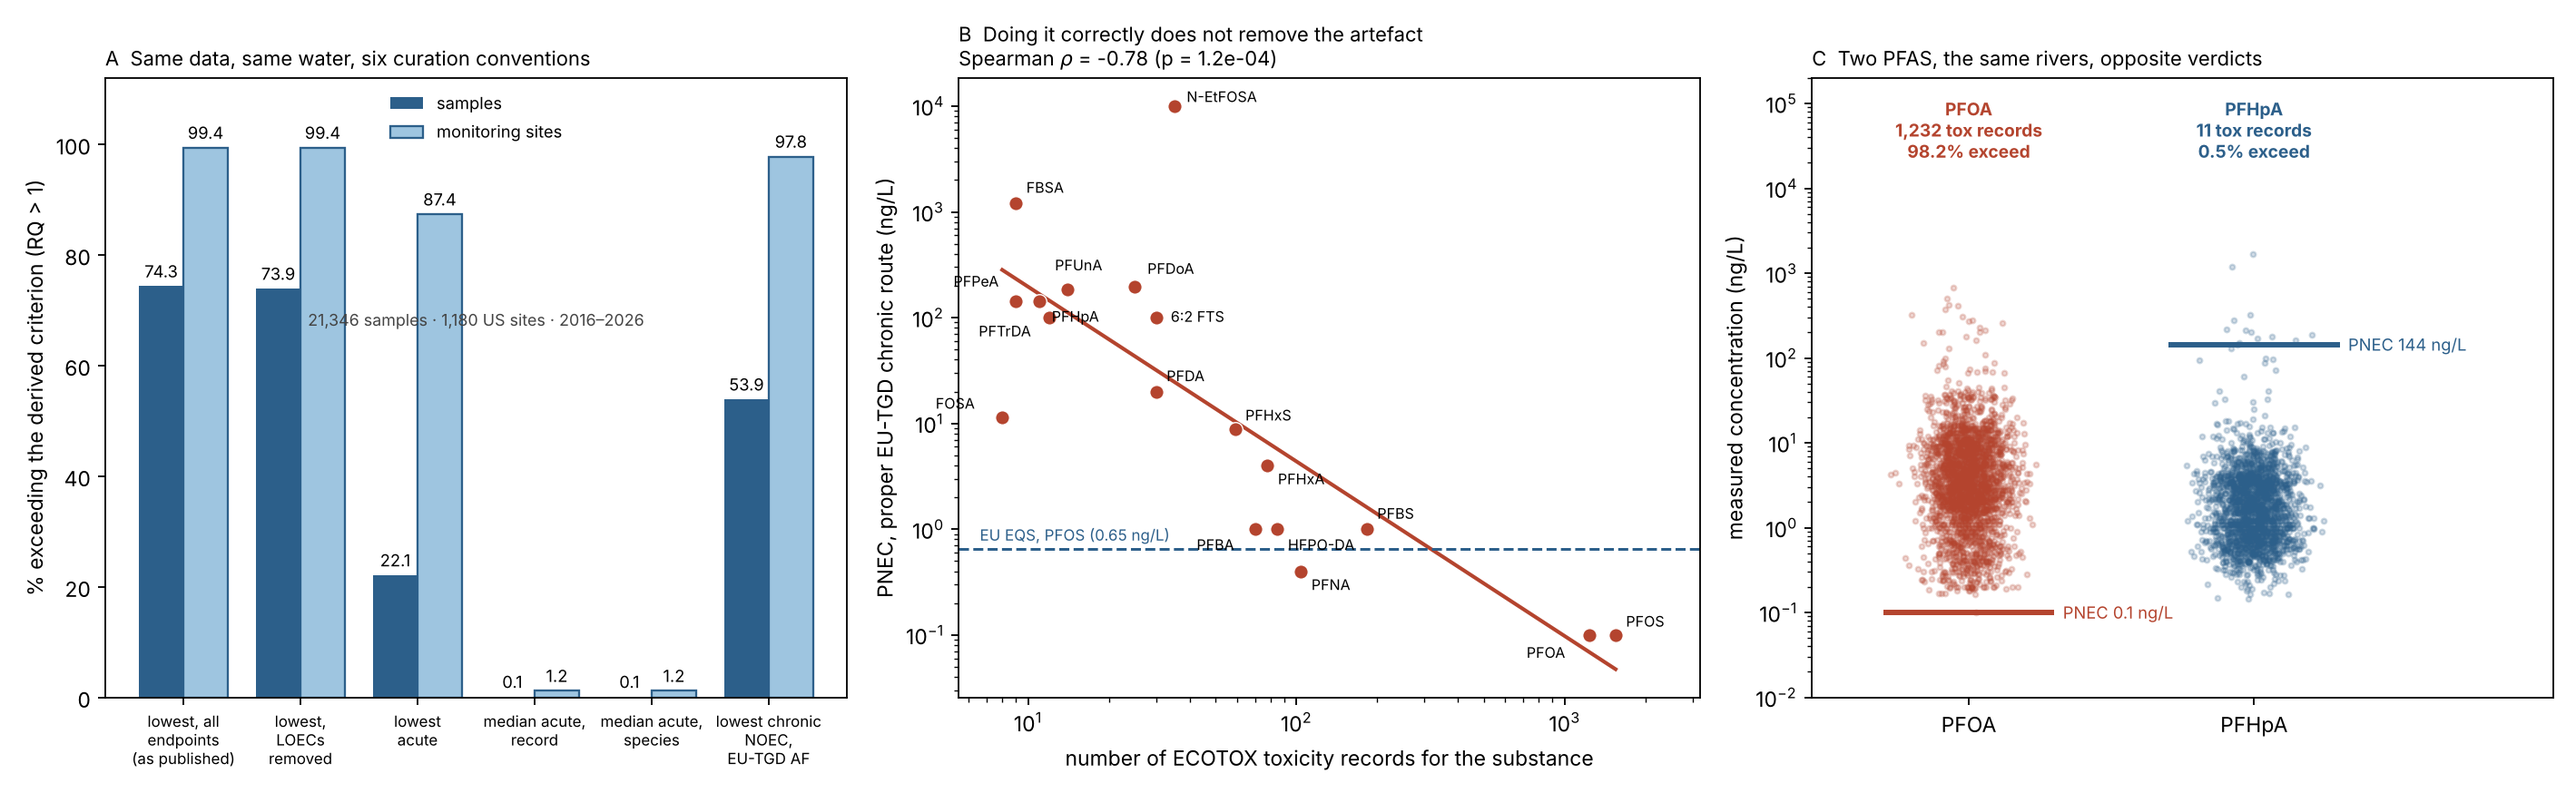
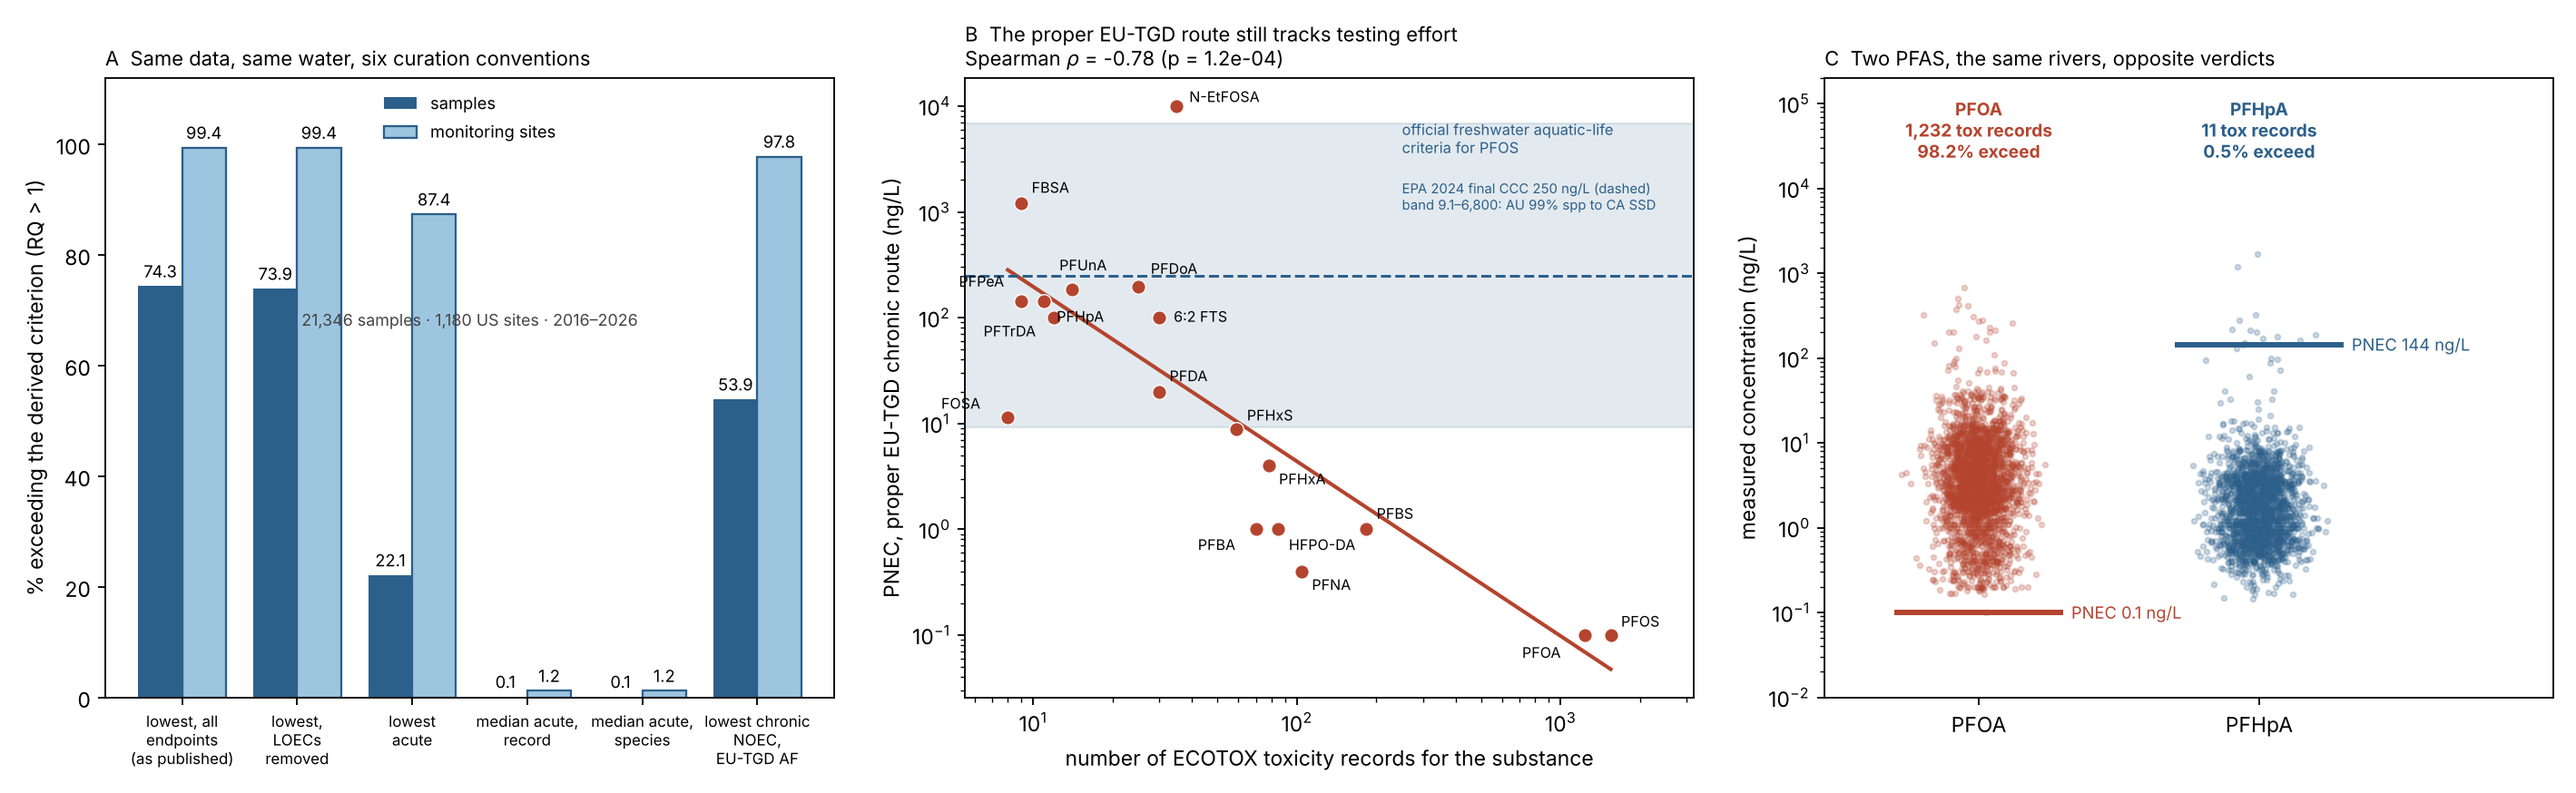
analysis_water: implement the regulatory-style screen (C7) and test it
Adds the apical-endpoint, chronic, active-ingredient screen that regulatory
derivations apply to ECOTOX, species mean chronic values and a log-normal SSD
HC5, plus a second assertion gate reproducing the deposited per-parent minimum
for all 87 parents.

The screen reaches the regulatory range (PFOS HC5 4,738 ng/L vs Canada FEQG
6,800) but leaves the testing-effort dependence intact (rho = -0.69 for the HC5),
because the number of species surviving the screen rises with study effort.

Claude-Session: https://claude.ai/code/session_011ULV6g6rrGQf1VyRDhee55

diff --git a/analysis_water/scripts/fig_c7.py b/analysis_water/scripts/fig_c7.py
@@ -1,0 +1,78 @@
+import pandas as pd, numpy as np, matplotlib
+matplotlib.use("Agg"); import matplotlib.pyplot as plt
+from scipy import stats
+C=pd.read_csv("/home/claude/wq/c7_ssd.csv"); L=pd.read_csv("ladder.csv")
+ex=pd.read_csv("exceedance_c7.csv")
+m=C.merge(L[["parent","n_records","C1_min_all","C3_min_acute","C5_spmed_acute",
+             "C6_min_noec","AF_C6"]],on="parent")
+rng=np.random.default_rng(20261121)
+def rho(x,y):
+    k=(~pd.isna(x))&(~pd.isna(y)); x,y=np.asarray(x)[k],np.asarray(y)[k]
+    r,_=stats.spearmanr(x,y)
+    bs=[stats.spearmanr(x[i],y[i])[0] for i in (rng.integers(0,len(y),len(y)) for _ in range(4000))]
+    return r,*np.nanpercentile(bs,[2.5,97.5]),len(y)
+x=np.log10(m.n_records)
+ITEMS=[("lowest, all endpoints\n(as published)",rho(x,m.C1_min_all)),
+       ("lowest acute",rho(x,m.C3_min_acute)),
+       ("lowest chronic NOEC,\nEU-TGD AF",rho(x,np.log10((10**m.C6_min_noec)/m.AF_C6))),
+       ("lowest apical chronic\nSMCV (screened)",rho(x,m.C7_min)),
+       ("SSD HC5 of apical\nchronic SMCVs",rho(np.log10(m[m.C7_HC5.notna()].n_records),
+                                               m[m.C7_HC5.notna()].C7_HC5)),
+       ("median acute,\nspecies-resolved",rho(x,m.C5_spmed_acute))]
+fig,ax=plt.subplots(2,2,figsize=(13.6,9.4))
+
+# A exceedance
+a=ax[0,0]; lb=["lowest,\nall endpoints","lowest\nacute","lowest chronic\nNOEC +AF",
+               "lowest apical\nSMCV +AF","SSD HC5\n(regulatory)","median acute,\nspecies"]
+o=[0,1,3,4,5,2]
+y1=ex.pct_samples.values[o]; y2=ex.pct_sites.values[o]
+xs=np.arange(6); w=.38
+a.bar(xs-w/2,y1,w,color="#2c5f8a",label="samples"); a.bar(xs+w/2,y2,w,color="#9ec5e0",edgecolor="#2c5f8a",label="sites")
+for i,(u,v) in enumerate(zip(y1,y2)):
+    a.text(i-w/2,u+1.7,f"{u:.1f}",ha="center",fontsize=7.6); a.text(i+w/2,v+1.7,f"{v:.1f}",ha="center",fontsize=7.6)
+a.set_xticks(xs); a.set_xticklabels(lb,fontsize=7.3); a.set_ylim(0,112)
+a.set_ylabel("% exceeding the derived criterion"); a.legend(fontsize=8,frameon=False,loc="upper right")
+a.set_title("A  21,346 measurements, 1,180 US sites: the verdict depends on the convention",fontsize=9.4,loc="left")
+
+# B forest
+b=ax[0,1]; ys=np.arange(len(ITEMS))[::-1]
+for yy,(lbl,(r,lo,hi,n)) in zip(ys,ITEMS):
+    sig = not (lo<=0<=hi)
+    c="#b4442e" if sig else "#2f7d4f"
+    b.plot([lo,hi],[yy,yy],c=c,lw=2.3,solid_capstyle="round")
+    b.plot(r,yy,"o",c=c,ms=8,zorder=3)
+    b.text(.06,yy+.26,f"n={n}",fontsize=7,color="#555")
+b.axvline(0,c="#888",lw=1,ls="--")
+b.set_yticks(ys); b.set_yticklabels([i[0] for i in ITEMS],fontsize=8)
+b.set_xlabel(r"Spearman $\rho$ between testing effort (log records) and the derived criterion")
+b.set_xlim(-1.02,.62)
+b.set_title("B  Screening to regulatory standards does not remove the artefact\n"
+            "red = CI excludes zero; green = effort-independent",fontsize=9.4,loc="left")
+
+# C mechanism
+c=ax[1,0]
+c.scatter(m.n_records,m.n_sp_C7,s=40,c="#2c5f8a",alpha=.8,edgecolor="w",lw=.5)
+r,lo,hi,n=rho(x,m.n_sp_C7)
+sl,ic,_,_,_=stats.linregress(x,np.log10(m.n_sp_C7.clip(lower=.5)))
+gx=np.linspace(x.min(),x.max(),50); c.plot(10**gx,10**(sl*gx+ic),c="#2c5f8a",lw=1.8)
+c.set_xscale("log"); c.set_yscale("log")
+c.set_xlabel("ECOTOX records for the substance"); c.set_ylabel("species surviving the regulatory screen")
+c.set_title(f"C  Why: more study means a longer left tail to the SSD\n"
+            rf"$\rho$ = {r:+.2f}, 95% CI [{lo:+.2f}, {hi:+.2f}]",fontsize=9.4,loc="left")
+
+# D matched pair
+d=ax[1,1]; mm=pd.read_pickle("m_ladder.pkl")
+mm["subst"]=mm.cas.map({"335-67-1":"PFOA","375-85-9":"PFHpA"})
+for i,(s,col) in enumerate([("PFOA","#b4442e"),("PFHpA","#2c5f8a")]):
+    g=mm[mm.subst==s]
+    d.scatter(np.random.default_rng(7+i).normal(i,.075,len(g)),g.ngL,s=6,alpha=.2,c=col)
+    p6=(10**g.C6_min_noec.iloc[0])*1e6/g.AF_C6.iloc[0]
+    d.hlines(p6,i-.3,i+.3,color=col,lw=2.6,zorder=4)
+    d.text(i+.33,p6,f"PNEC {p6:,.3g} ng/L",fontsize=8,color=col,va="center")
+    d.text(i,3e4,f"{s}\n{int(g.n_records.iloc[0]):,} records\n{100*(g.ngL>p6).mean():.1f}% exceed",
+           ha="center",fontsize=8.6,color=col,weight="bold")
+d.set_yscale("log"); d.set_xticks([0,1]); d.set_xticklabels(["PFOA","PFHpA"])
+d.set_xlim(-.55,2.0); d.set_ylim(1e-2,3e5); d.set_ylabel("measured concentration (ng/L)")
+d.set_title("D  Two PFAS measured at the same 819 sites, opposite verdicts",fontsize=9.4,loc="left")
+plt.tight_layout(); plt.savefig("fig_c7.png",dpi=160)
+for lbl,(r,lo,hi,n) in ITEMS: print(f"{lbl.replace(chr(10),' '):42s} rho={r:+.3f} [{lo:+.3f},{hi:+.3f}] n={n}")

diff --git a/analysis_water/scripts/c7b.py b/analysis_water/scripts/c7b.py
@@ -1,0 +1,60 @@
+import pandas as pd, numpy as np
+from rdkit import Chem, RDLogger
+from rdkit.Chem.MolStandardize import rdMolStandardize
+from scipy import stats
+RDLogger.DisableLog('rdApp.*'); UNC=rdMolStandardize.Uncharger()
+def canon(s):
+    m=Chem.MolFromSmiles(str(s))
+    if m is None: return None
+    fr=Chem.GetMolFrags(m,asMols=True,sanitizeFrags=False)
+    fl=[f for f in fr if any(a.GetSymbol()=="F" for a in f.GetAtoms())]
+    big=max(fl if fl else fr,key=lambda f:f.GetNumHeavyAtoms())
+    try: big=UNC.uncharge(big); Chem.SanitizeMol(big)
+    except Exception: pass
+    return Chem.MolToSmiles(big)
+meas=pd.read_csv("/home/claude/pfasv32/archive_v2/ecotox_pfas_measured.csv")
+meas["parent"]=[canon(s) for s in meas.canonical_smiles]; meas=meas[meas.parent.notna()]
+meas["test_cas"]=meas.test_cas.astype(str)
+rec=pd.read_csv("records_with_species.csv.gz"); rec["test_cas"]=rec.test_cas.astype(str)
+R=pd.read_csv("results_enriched.csv.gz",dtype=str)
+
+# unit -> multiplier (to mg/L), learned from the deposited records
+um=rec.dropna(subset=["mult"]).groupby("conc1_unit").mult.agg(lambda s:s.iloc[0]).to_dict()
+chk=rec.groupby("conc1_unit").mult.nunique()
+assert (chk<=1).all(), "unit->mult not unique"
+print("units:",um)
+
+R["conc"]=pd.to_numeric(R.conc1_mean,errors="coerce")
+R["unit"]=R.conc1_unit.astype(str).str.strip()
+R["mult"]=R.unit.map(um)
+R=R[R.conc.notna() & R["mult"].notna() & (R.conc>0)].copy()
+R["logTox"]=np.log10(R.conc*R["mult"])
+R["test_id"]=R.test_id.astype(str)
+
+sp=rec.drop_duplicates("test_id")[["test_id","test_cas","latin_name","ecotox_group","organism_habitat","media_type"]]
+sp["test_id"]=sp.test_id.astype(str)
+R=R.merge(sp,on="test_id",how="inner").merge(meas[["test_cas","parent"]],on="test_cas",how="inner")
+R["ep"]=R.endpoint.astype(str).str.strip().str.upper().str.replace("*","",regex=False)
+R["censored"]=R.conc1_mean_op.astype(str).str.strip().isin([">","<",">=","<=","~"])
+print("censored rows dropped:",int(R.censored.sum()))
+R=R[~R.censored].copy()
+R=R.drop_duplicates(subset=["test_id","ep","conc1_mean","conc1_unit","effect","measurement"])
+print("\nresult-level rows with parent+species+logTox: %d  (%d parents)"%(len(R),R.parent.nunique()))
+print("effect assigned: %.1f%%"%(100*R.effect.notna().mean()))
+
+# ---- GATE: the deposited minimum must be reproducible from this result-level table
+dep=pd.read_csv("/home/claude/pfasv32/canonical_results/ecotox_pfas_measured_recurated.csv")
+mn=R.drop_duplicates(subset=["test_id","ep","conc1_mean","conc1_unit"]).groupby("parent").logTox.min()
+cmp=dep.set_index("parent").logTox.to_dict()
+agree=sum(1 for p,v in mn.items() if p in cmp and abs(v-cmp[p])<1e-9)
+print("GATE: parents whose deposited logTox min is reproduced: %d / %d"%(agree,len(cmp)))
+
+APICAL={"MOR","GRO","REP","DVP","POP"}
+CHRON={"NOEC","EC10","MATC","NOEL"}
+R["apical"]=R.effect.isin(APICAL); R["chron"]=R.ep.isin(CHRON)
+print("\napical %.1f%%   chronic-endpoint %.1f%%"%(100*R.apical.mean(),100*R.chron.mean()))
+lo=R[R.logTox<-3]; hi=R[R.logTox>=-3]
+print("\nextreme tail (<1 ug/L): n=%d, apical %.1f%%"%(len(lo),100*lo.apical.mean()))
+print("rest:                   n=%d, apical %.1f%%"%(len(hi),100*hi.apical.mean()))
+print("\neffect mix in the extreme tail:"); print(lo.effect.value_counts().head(10).to_string())
+R.to_csv("results_parent.csv.gz",index=False,compression="gzip")

diff --git a/analysis_water/scripts/c7c.py b/analysis_water/scripts/c7c.py
@@ -1,0 +1,54 @@
+import pandas as pd, numpy as np
+from scipy import stats
+R=pd.read_csv("results_parent.csv.gz")
+DEP_EP={"EC50","IC50","LC50","LOEC","LOEL","MATC","NOEC","NOEL"}
+G=R[R.ep.isin(DEP_EP)].copy()
+dep=pd.read_csv("/home/claude/pfasv32/canonical_results/ecotox_pfas_measured_recurated.csv")
+mn=G.drop_duplicates(subset=["test_id","ep","conc1_mean","conc1_unit"]).groupby("parent").logTox.min()
+d=dep.set_index("parent").logTox
+j=pd.DataFrame({"mine":mn,"dep":d}).dropna()
+ok=int(((j.mine-j.dep).abs()<1e-9).sum())
+print("GATE: deposited logTox min reproduced for %d / %d parents"%(ok,len(j)))
+assert ok==len(j)==87, "gate failed"
+
+APICAL={"MOR","GRO","REP","DVP","POP"}
+C7EP={"NOEC","NOEL","MATC","EC10"}
+sel=R[R.ep.isin(C7EP) & R.effect.isin(APICAL) & (R.conc1_type=="A")].copy()
+print("\nC7 screen: chronic apical, active ingredient -> %d results, %d parents, %d species"
+      %(len(sel),sel.parent.nunique(),sel.latin_name.nunique()))
+print("  endpoint mix:",sel.ep.value_counts().to_dict())
+print("  effect mix:  ",sel.effect.value_counts().to_dict())
+
+# Species Mean Chronic Value = geometric mean within species
+smcv=sel.groupby(["parent","latin_name"]).logTox.mean().reset_index()
+rows=[]
+for p,g in smcv.groupby("parent"):
+    v=np.sort(g.logTox.values); n=len(v)
+    mu=v.mean(); sd=v.std(ddof=1) if n>1 else np.nan
+    hc5=mu+stats.norm.ppf(.05)*sd if (n>=5 and sd==sd) else np.nan
+    rows.append(dict(parent=p,n_sp_C7=n,C7_min=v[0],C7_gm=mu,C7_sd=sd,C7_HC5=hc5))
+C=pd.DataFrame(rows)
+C.to_csv("c7_ssd.csv",index=False)
+print("\nparents with >=5 species (SSD-able): %d ; >=3: %d"%(C.n_sp_C7.ge(5).sum(),C.n_sp_C7.ge(3).sum()))
+
+NAME={"O=S(=O)(O)C(F)(F)C(F)(F)C(F)(F)C(F)(F)C(F)(F)C(F)(F)C(F)(F)C(F)(F)F":"PFOS",
+      "O=C(O)C(F)(F)C(F)(F)C(F)(F)C(F)(F)C(F)(F)C(F)(F)C(F)(F)F":"PFOA"}
+OFF={"PFOS":{"EPA 2024 CCC":250,"EU direct-tox AA-EQS":230,"AU DGV 95%":480,
+             "AU DGV 99%":9.1,"CA FEQG":6800},
+     "PFOA":{"EPA 2024 CCC":100000}}
+print("\n"+"="*92)
+print("C7 (regulatory-style screen) vs OFFICIAL FRESHWATER AQUATIC-LIFE CRITERIA, ng/L")
+print("="*92)
+for smi,nm in NAME.items():
+    r=C[C.parent==smi]
+    if not len(r): print(nm,"absent"); continue
+    r=r.iloc[0]
+    gm=10**np.mean(np.log10(list(OFF[nm].values())))
+    print(f"\n{nm}: {int(r.n_sp_C7)} species after screen")
+    for lbl,col,af in [("C7 HC5 (SSD 5th pct), no AF","C7_HC5",1.0),
+                       ("C7 lowest SMCV / AF 10","C7_min",10.0),
+                       ("C7 geometric mean SMCV","C7_gm",1.0)]:
+        if pd.isna(r[col]): print(f"  {lbl:32s} n/a"); continue
+        v=(10**r[col])*1e6/af      # mg/L -> ng/L
+        print(f"  {lbl:32s} {v:>12,.4g} ng/L   {v/gm:>10,.3g}x official gm ({np.log10(v/gm):+.2f} log)")
+    print(f"  official: "+", ".join(f"{k} {v:,.4g}" for k,v in OFF[nm].items())+f"  | gm {gm:,.4g}")

diff --git a/analysis_water/scripts/c7test.py b/analysis_water/scripts/c7test.py
@@ -1,0 +1,36 @@
+import pandas as pd, numpy as np
+from scipy import stats
+C=pd.read_csv("c7_ssd.csv"); L=pd.read_csv("wqp/ladder.csv")
+m=C.merge(L[["parent","n_records","C1_min_all","C6_min_noec","AF_C6","C5_spmed_acute"]],on="parent")
+rng=np.random.default_rng(20261121)
+def rho(x,y,lbl):
+    k=(~pd.isna(x))&(~pd.isna(y)); x,y=np.asarray(x)[k],np.asarray(y)[k]
+    r,p=stats.spearmanr(x,y)
+    bs=[stats.spearmanr(x[i],y[i])[0] for i in (rng.integers(0,len(y),len(y)) for _ in range(4000))]
+    lo,hi=np.nanpercentile(bs,[2.5,97.5])
+    print(f"  {lbl:46s} n={len(y):3d}  rho={r:+.3f}  95%CI [{lo:+.3f},{hi:+.3f}]  p={p:.2g}")
+    return r
+print("="*98)
+print("DOES THE REGULATORY-STYLE SCREEN REMOVE THE TESTING-EFFORT DEPENDENCE?")
+print("="*98)
+x=np.log10(m.n_records)
+rho(x,m.C1_min_all,          "C1  lowest, all endpoints (as published)")
+rho(x,np.log10((10**m.C6_min_noec)/m.AF_C6), "C6  lowest chronic NOEC / EU-TGD AF")
+rho(x,m.C5_spmed_acute,      "C5  median acute, species-resolved")
+rho(x,m.C7_min,              "C7  lowest apical chronic SMCV")
+rho(x,m.C7_gm,               "C7  geometric mean apical chronic SMCV")
+s=m[m.C7_HC5.notna()]
+rho(np.log10(s.n_records),s.C7_HC5, "C7  SSD HC5 (5th pct), >=5 species")
+print("\n  n species surviving the C7 screen vs effort:")
+rho(x,m.n_sp_C7,             "      (species count itself)")
+print("\n" + "="*98)
+print("WHY: does the screen remove MORE records from better-studied substances?")
+R=pd.read_csv("results_parent.csv.gz")
+DEP={"EC50","IC50","LC50","LOEC","LOEL","MATC","NOEC","NOEL"}
+g=R[R.ep.isin(DEP)].groupby("parent").agg(n_all=("logTox","size"),
+      n_apical=("effect",lambda s:s.isin({"MOR","GRO","REP","DVP","POP"}).sum()))
+g["frac_apical"]=g.n_apical/g.n_all
+g=g[g.n_all>=10]
+rho(np.log10(g.n_all),g.frac_apical,"  apical fraction vs n records (>=10 recs)")
+print(f"\n  apical fraction: substances with <50 records {g[g.n_all<50].frac_apical.median():.3f}"
+      f" ; >=200 records {g[g.n_all>=200].frac_apical.median():.3f}")

diff --git a/analysis_water/scripts/exceed7.py b/analysis_water/scripts/exceed7.py
@@ -1,0 +1,25 @@
+import pandas as pd, numpy as np
+C=pd.read_csv("/home/claude/wq/c7_ssd.csv")
+m=pd.read_pickle("m_ladder.pkl").merge(C,on="parent",how="left")
+m["ugL"]=m.ngL/1000.0
+CONV=[("C1_min_all","lowest, all endpoints (as published)",1000.0),
+      ("C3_min_acute","lowest acute",1000.0),
+      ("C5_spmed_acute","median acute, species-resolved",1000.0),
+      ("C6_min_noec","lowest chronic NOEC, EU-TGD AF","AF_C6"),
+      ("C7_min","lowest apical chronic SMCV, AF 10",10.0),
+      ("C7_HC5","SSD HC5 of apical chronic SMCVs (regulatory style)",1.0)]
+rows=[]
+for col,lbl,AF in CONV:
+    d=m[m[col].notna()].copy()
+    a=d[AF] if isinstance(AF,str) else AF
+    if isinstance(AF,str): d=d[d[AF].notna()]; a=d[AF]
+    d["PNEC"]=(10.0**d[col])*1000.0/a
+    d["RQ"]=d.ugL/d.PNEC
+    st=d.groupby("MonitoringLocationIdentifier").RQ.max()
+    rows.append(dict(convention=lbl,n_samples=len(d),n_sub=d.parent.nunique(),
+        med_PNEC_ngL=1000*d.PNEC.median(),
+        pct_samples=100*(d.RQ>1).mean(),pct_sites=100*(st>1).mean()))
+r=pd.DataFrame(rows)
+pd.set_option("display.width",200); pd.set_option("display.max_colwidth",52)
+print(r.to_string(index=False,float_format=lambda x:f"{x:,.4g}"))
+r.to_csv("exceedance_c7.csv",index=False)

diff --git a/analysis_water/scripts/enrich2.py b/analysis_water/scripts/enrich2.py
@@ -1,0 +1,12 @@
+import pandas as pd, numpy as np
+rec=pd.read_csv("records_with_species.csv.gz")
+tids=set(rec.test_id.astype(str))
+cols=["result_id","test_id","obs_duration_mean","obs_duration_unit","endpoint",
+      "effect","measurement","conc1_type","conc1_mean_op","conc1_mean","conc1_unit"]
+keep=[]
+for ch in pd.read_csv("/home/claude/ecotox_raw/ecotox_ascii_09_15_2026/results.txt",
+        sep="|",usecols=cols,dtype=str,chunksize=400000,on_bad_lines="skip",quoting=3):
+    keep.append(ch[ch.test_id.isin(tids)])
+R=pd.concat(keep,ignore_index=True)
+R.to_csv("results_enriched.csv.gz",index=False,compression="gzip")
+print("rows",len(R))

diff --git a/analysis_water/README.md b/analysis_water/README.md
@@ -58,3 +58,48 @@ Structures are not taken from that table: the CAS is used only as a key into
 ECOTOX's own substance file, and `results/char_map.csv` records the resulting
 molecular formula for every mapped name so that name-structure agreement can be
 checked directly.
+
+## C7 — reproducing the regulatory screen
+
+Regulators do not use ECOTOX as deposited. They screen it. `scripts/c7c.py`
+implements the screen explicitly:
+
+* chronic endpoints only: NOEC, NOEL, MATC, **EC10** (EC10 is not in the deposited
+  endpoint set; including it is a deliberate departure, since regulatory chronic
+  derivations prefer it)
+* **apical effects only**: mortality, growth, reproduction, development, population.
+  Gene expression (GEN), biochemistry (BCM), enzyme activity (ENZ), hormones (HRM),
+  behaviour (BEH), histology and accumulation are excluded.
+* active ingredient only (`conc1_type == "A"`)
+* species mean chronic value = geometric mean within species
+* HC5 = 5th percentile of a log-normal SSD fitted to the species mean chronic values
+  (>= 5 species)
+
+`scripts/c7b.py` carries a second assertion gate: the deposited per-parent minimum
+`logTox` must be reproducible from the result-level table for all 87 parents. This
+requires the same two rules the deposited pipeline used — strip the `*` qualifier
+from endpoint codes, and drop censored values (`conc1_mean_op` in `> < >= <= ~`).
+
+### Result
+
+The screen brings the derived value into the regulatory range: the PFOS HC5 is
+4,738 ng/L against Canada's SSD-derived FEQG of 6,800 ng/L, and the PFOA HC5 is
+9,516 ng/L against the US EPA 2024 final chronic criterion of 100,000 ng/L.
+
+It does not remove the effort dependence. Spearman rho between log(records) and the
+derived criterion:
+
+| convention | rho | 95% CI | n |
+|---|---|---|---|
+| lowest, all endpoints (as published) | -0.783 | -0.903, -0.586 | 52 |
+| lowest acute | -0.196 | -0.509, +0.159 | 41 |
+| lowest chronic NOEC, EU-TGD AF | -0.706 | -0.856, -0.479 | 46 |
+| lowest apical chronic SMCV (screened) | -0.787 | -0.887, -0.624 | 52 |
+| SSD HC5 of apical chronic SMCVs | -0.691 | -0.940, -0.306 | 16 |
+| median acute, species-resolved | +0.115 | -0.240, +0.424 | 41 |
+
+The mechanism is in `figures/fig_c7.png` panel C: the number of species surviving
+the screen rises with the number of records (rho = +0.76), so a better-studied
+substance gets a longer left tail on its SSD and a lower 5th percentile. Every
+criterion anchored on an extreme of the available data inherits this. Only the
+central-tendency statistic is effort-stable, and it is not protective.
